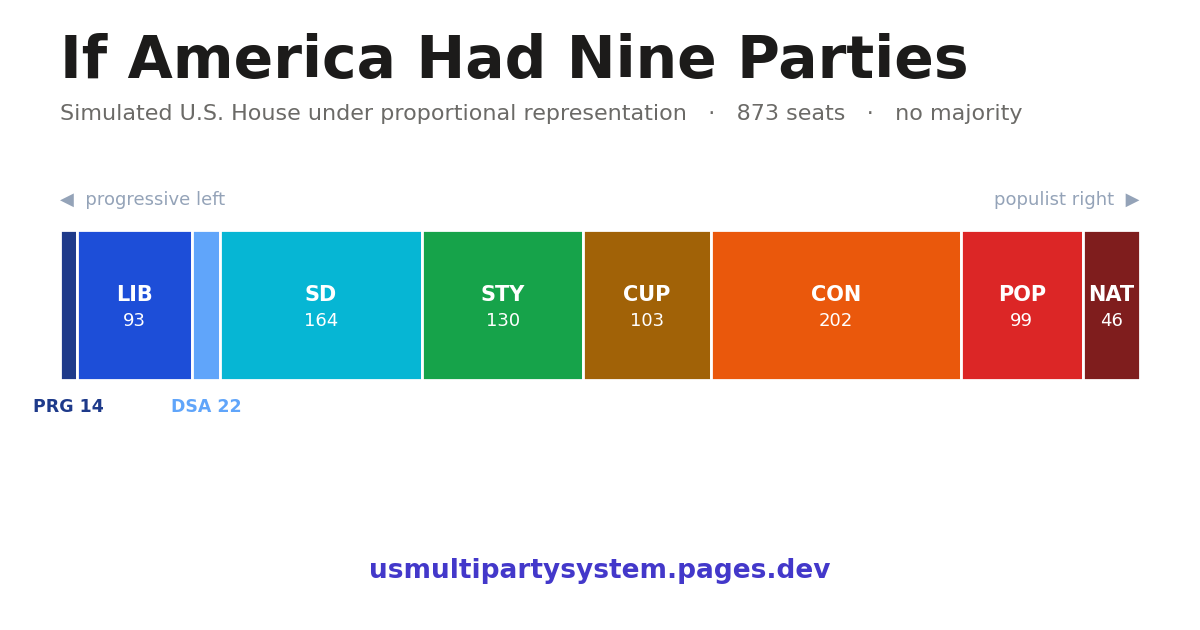
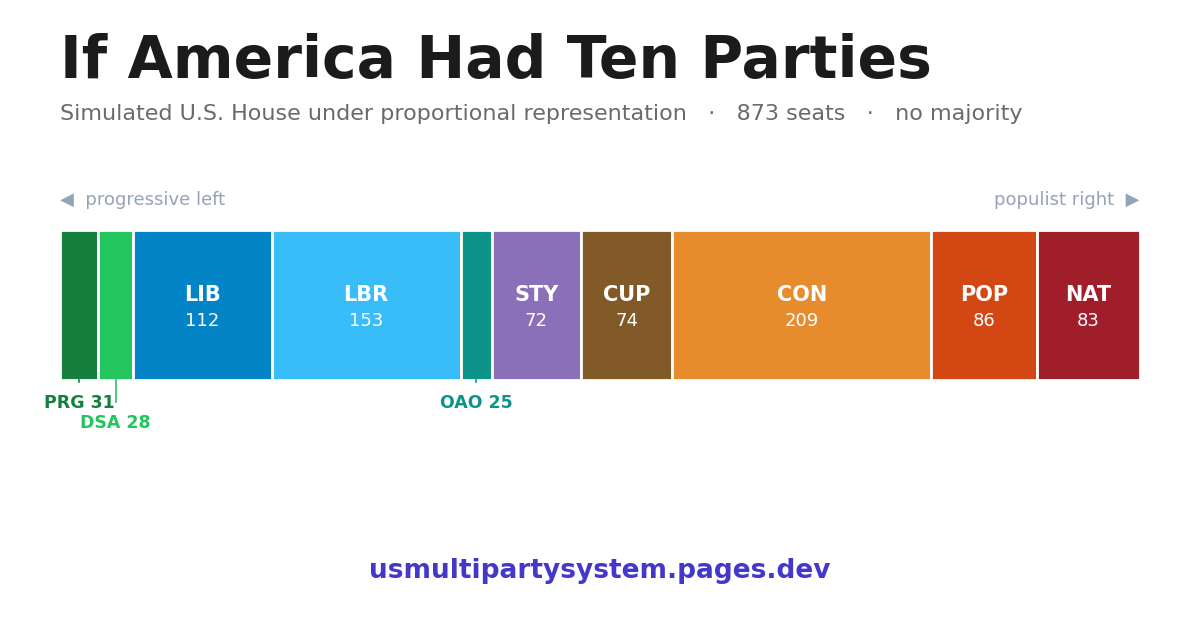
Fix link preview: ten-party OG image + "Ten Parties" title
The social preview showed the stale nine-party graphic (old SD code, no OAO)
and read "If America Had Nine Parties". Rewrite make_og_image.py to render all
ten current parties, reading seat totals from the default site view
(houseSeatsTurnout.json) so the image can't drift out of sync again, with
colors/order mirroring parties.ts. Narrow segments (PRG/DSA/OAO) now label
below the bar with connector lines, staggered so tight neighbors don't collide.
Update og:/twitter: titles to "Ten Parties" and bump the image URL to ?v=2 to
force social scrapers past their cache.

Changed region(s): [[0.0308, 0.3619, 0.9558, 0.6937], [0.4625, 0.0302, 0.8017, 0.1508]]

diff --git a/viz/index.html b/viz/index.html
@@ -10,15 +10,15 @@
     <!-- Social preview (Open Graph + Twitter) -->
     <meta property="og:type" content="website" />
     <meta property="og:url" content="https://usmultipartysystem.pages.dev/" />
-    <meta property="og:title" content="If America Had Nine Parties" />
+    <meta property="og:title" content="If America Had Ten Parties" />
     <meta property="og:description" content="An interactive simulation of US elections under proportional representation, built from 45,707 CES 2024 survey responses." />
-    <meta property="og:image" content="https://usmultipartysystem.pages.dev/og-image.png" />
+    <meta property="og:image" content="https://usmultipartysystem.pages.dev/og-image.png?v=2" />
     <meta property="og:image:width" content="1200" />
     <meta property="og:image:height" content="630" />
     <meta name="twitter:card" content="summary_large_image" />
-    <meta name="twitter:title" content="If America Had Nine Parties" />
+    <meta name="twitter:title" content="If America Had Ten Parties" />
     <meta name="twitter:description" content="An interactive simulation of US elections under proportional representation, built from 45,707 CES 2024 survey responses." />
-    <meta name="twitter:image" content="https://usmultipartysystem.pages.dev/og-image.png" />
+    <meta name="twitter:image" content="https://usmultipartysystem.pages.dev/og-image.png?v=2" />
   </head>
   <body>
     <div id="root"></div>

diff --git a/viz/scripts/make_og_image.py b/viz/scripts/make_og_image.py
@@ -1,52 +1,78 @@
 #!/usr/bin/env python3
-"""Render the social-preview / README hero image: the nine-party House as an
-ideological-spectrum seat bar. Outputs viz/public/og-image.png (1200x630)."""
+"""Render the social-preview / README hero image: the ten-party House as an
+ideological-spectrum seat bar. Outputs viz/public/og-image.png (1200x630).
+
+Seat totals are read from the default site view (src/data/houseSeatsTurnout.json,
+the validated-turnout-weighted result) so this image can't drift out of sync with
+what visitors actually see. Colors and left->right order mirror
+src/constants/parties.ts — keep them in sync if either changes there.
+"""
+import json
 import matplotlib
 matplotlib.use("Agg")
 import matplotlib.pyplot as plt
 from matplotlib.patches import Rectangle
 from pathlib import Path
 
-W, H, TOTAL = 1200, 630, 873
-ORDER = ["PRG", "LIB", "DSA", "SD", "STY", "CUP", "CON", "POP", "NAT"]  # F5 left -> right
-SEATS = {"CON": 202, "SD": 164, "STY": 130, "CUP": 103, "POP": 99, "LIB": 93, "NAT": 46, "DSA": 22, "PRG": 14}
-COLORS = {"PRG": "#1e3a8a", "LIB": "#1d4ed8", "DSA": "#60a5fa", "SD": "#06b6d4", "STY": "#16a34a",
-          "CUP": "#a16207", "CON": "#ea580c", "POP": "#dc2626", "NAT": "#7f1d1d"}
+W, H = 1200, 630
+
+# F5 left -> right (matches parties.ts F5_ORDER)
+ORDER = ["PRG", "DSA", "LIB", "LBR", "OAO", "STY", "CUP", "CON", "POP", "NAT"]
+# Party colors (mirror src/constants/parties.ts PARTY_COLORS)
+COLORS = {
+    "PRG": "#15803d", "DSA": "#22c55e", "LIB": "#0284c7", "LBR": "#38bdf8",
+    "OAO": "#0d9488", "STY": "#8a70b8", "CUP": "#825a27", "CON": "#e68c2c",
+    "POP": "#d34812", "NAT": "#a01d2a",
+}
+# houseSeats party integer codes -> party code (parties.ts CLUSTER_TO_PARTY)
+CODE = {0: "CON", 1: "LBR", 2: "STY", 3: "NAT", 4: "LIB",
+        5: "POP", 6: "CUP", 7: "OAO", 8: "DSA", 9: "PRG"}
+
+ROOT = Path(__file__).resolve().parent.parent
+rows = json.loads((ROOT / "src" / "data" / "houseSeatsTurnout.json").read_text())
+SEATS = {CODE[r["party"]]: r["national"] for r in rows}
+TOTAL = sum(SEATS.values())
 
 fig = plt.figure(figsize=(W / 100, H / 100), dpi=100)
 fig.patch.set_facecolor("#ffffff")
 ax = fig.add_axes([0, 0, 1, 1]); ax.set_xlim(0, W); ax.set_ylim(0, H); ax.axis("off")
 
-ax.text(60, H - 78, "If America Had Nine Parties", fontsize=42, fontweight="bold", color="#1c1b1a")
-ax.text(60, H - 120, "Simulated U.S. House under proportional representation   ·   873 seats   ·   no majority",
+ax.text(60, H - 78, "If America Had Ten Parties", fontsize=42, fontweight="bold", color="#1c1b1a")
+ax.text(60, H - 120, f"Simulated U.S. House under proportional representation   ·   {TOTAL} seats   ·   no majority",
         fontsize=16, color="#6b6a67")
 
 x0, x1 = 60, W - 60
 bw = x1 - x0
 by, bh = 250, 150
+NARROW = 48  # segments this wide or less can't fit a code+count inside; label below instead
 x = x0
 seg = {}
 for code in ORDER:
     w = SEATS[code] / TOTAL * bw
     ax.add_patch(Rectangle((x, by), w, bh, facecolor=COLORS[code], edgecolor="white", linewidth=2))
     seg[code] = (x, w)
-    if w > 34:  # label inside wide segments
+    if w > NARROW:  # label inside wide segments
         ax.text(x + w / 2, by + bh / 2 + 10, code, ha="center", va="center", color="white", fontsize=15, fontweight="bold")
         ax.text(x + w / 2, by + bh / 2 - 16, str(SEATS[code]), ha="center", va="center", color="white", fontsize=13)
     x += w
 
-# narrow segments get a label below, in party color
-for code in ORDER:
-    xs, w = seg[code]
-    if w <= 34:
-        ax.text(xs + w / 2, by - 18, f"{code} {SEATS[code]}", ha="center", va="top",
-                color=COLORS[code], fontsize=12.5, fontweight="bold")
+# Narrow segments get a label below in party color, with a short connector line.
+# Stagger adjacent labels onto a second row so tight neighbors (e.g. PRG + DSA) don't collide.
+below = sorted((seg[c][0] + seg[c][1] / 2, c) for c in ORDER if seg[c][1] <= NARROW)
+last_x, row = -1e9, 0
+for cx, code in below:
+    row = 1 - row if (cx - last_x) < 56 else 0
+    y = by - 14 - row * 20
+    ax.plot([cx, cx], [by, y + 12], color=COLORS[code], linewidth=1.2)
+    ax.text(cx, y, f"{code} {SEATS[code]}", ha="center", va="top",
+            color=COLORS[code], fontsize=12.5, fontweight="bold")
+    last_x = cx
 
 # spectrum cue + footer
 ax.text(x0, by + bh + 30, "◀  progressive left", ha="left", va="center", color="#94a3b8", fontsize=13)
 ax.text(x1, by + bh + 30, "populist right  ▶", ha="right", va="center", color="#94a3b8", fontsize=13)
 ax.text(W / 2, 52, "usmultipartysystem.pages.dev", ha="center", color="#4338ca", fontsize=19, fontweight="bold")
 
-out = Path(__file__).resolve().parent.parent / "public" / "og-image.png"
+out = ROOT / "public" / "og-image.png"
 fig.savefig(out, dpi=100, facecolor="#ffffff")
 print("wrote", out)
